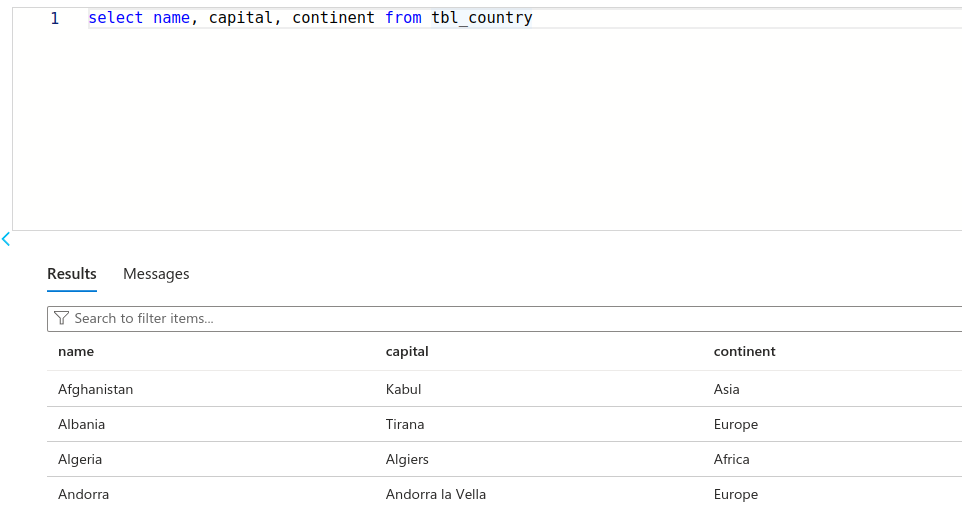
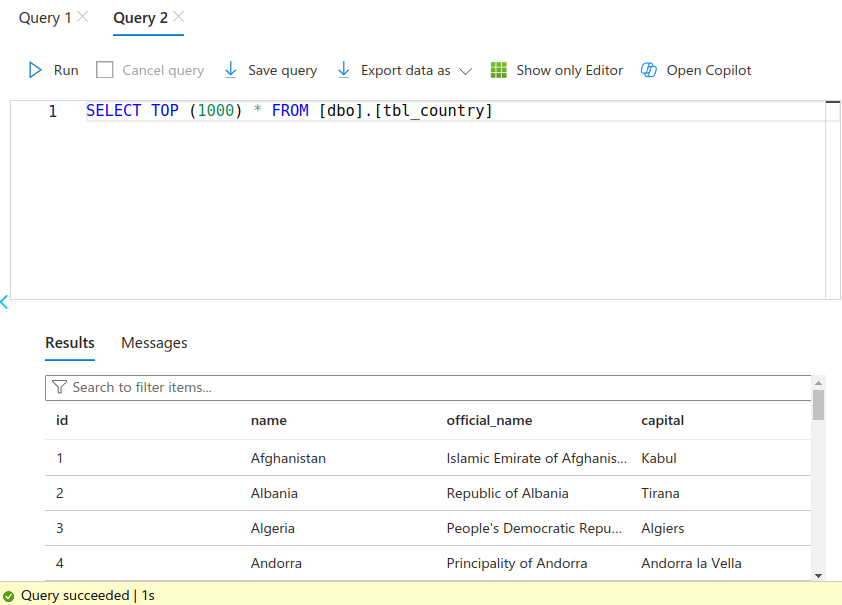
Table, model class and README file were modified

diff --git a/src/main/java/com/example/demo/service/FileService.java b/src/main/java/com/example/demo/service/FileService.java
@@ -35,12 +35,7 @@ public class FileService {
                 Country country = new Country();
                 country.setName(lineArray[1]);
                 country.setCapital(lineArray[3]);
-                country.setContinent(lineArray[8]);
-
-                country.setPopulation(Integer.parseInt(lineArray[4]));
-                country.setArea(Integer.parseInt(lineArray[5]));
-                country.setGdpPerCapita(Integer.parseInt(lineArray[6]));
-                country.setYear(Integer.parseInt(lineArray[7]));
+                country.setOfficialName(lineArray[2]);
 
                 countryRepository.save(country);
                 

diff --git a/src/main/java/com/example/demo/model/Country.java b/src/main/java/com/example/demo/model/Country.java
@@ -23,22 +23,10 @@ public class Country {
     @Column(name="name")
     private String name;    
 
+    @Column(name="official_name")
+    private String officialName;
+
     @Column(name="capital")
     private String capital;
-
-    @Column(name="continent")
-    private String continent;
-
-    @Column(name="population")
-    private Integer population;
-
-    @Column(name="area")
-    private Integer area;
-
-    @Column(name="gdp_per_capita")
-    private Integer gdpPerCapita;
-
-    @Column(name="year")
-    private Integer year;
 
 }

diff --git a/README.md b/README.md
@@ -7,18 +7,24 @@ READING A FILE AND STORING IT IN AZURE SQL
 
 Table created in Azure SQL:
 
-![tbl_country](screenshots/tbl_country.png)
+![tblCountry](screenshots/tbl_country.png)
 
 ----------------------------------------------------
 
-Endpoint exposed to read a file:
+Endpoint exposed to read content from a file:
 
-![readFile](screenshots/readFile.png)
+![readFileEndpoint](screenshots/readFileEndpoint.png)
 
 ----------------------------------------------------
 
 Data loaded in the table:
 
 ![records](screenshots/records.png)
+
+----------------------------------------------------
+
+Endpoint exposed to clean data from db:
+
+![cleanEndpoint](screenshots/cleanEndpoint.png)
 
 ----------------------------------------------------
